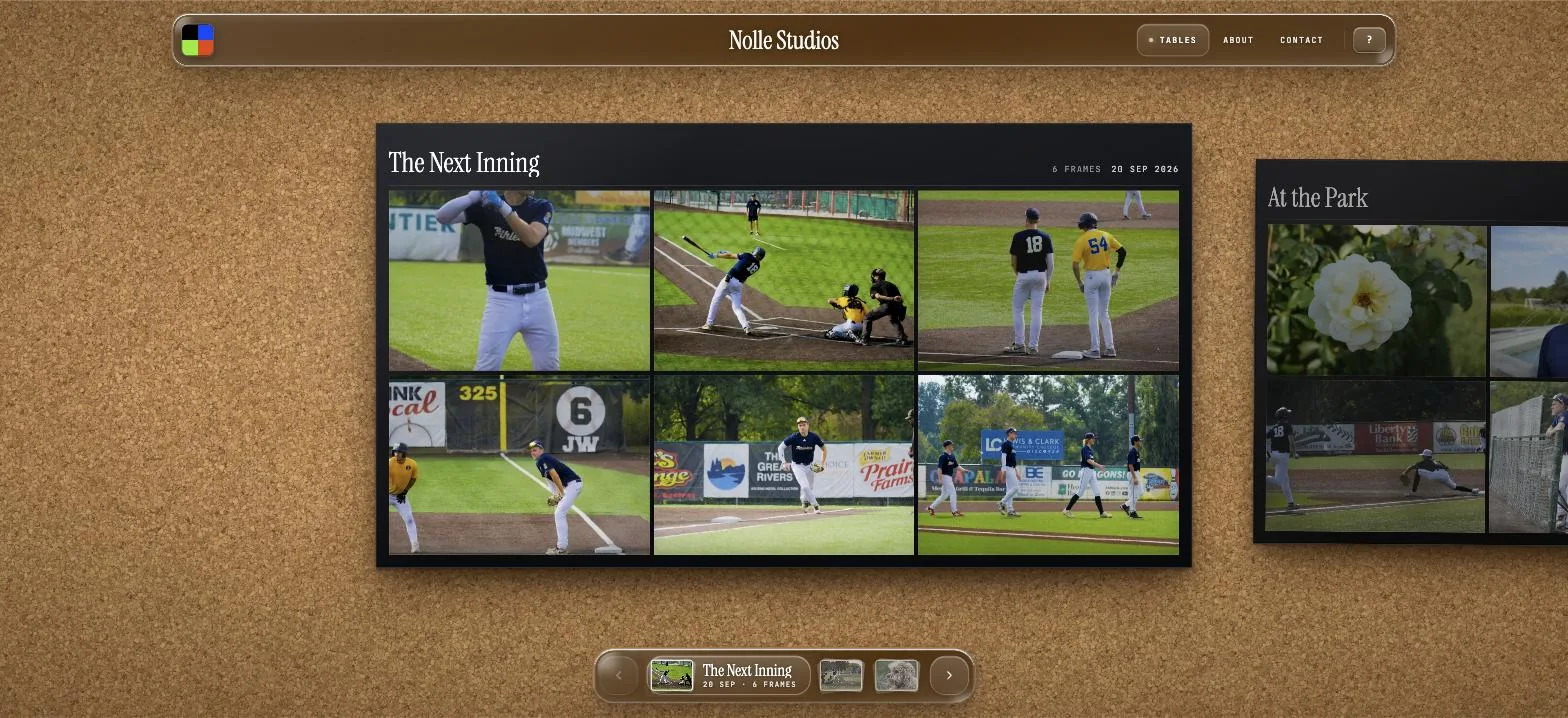
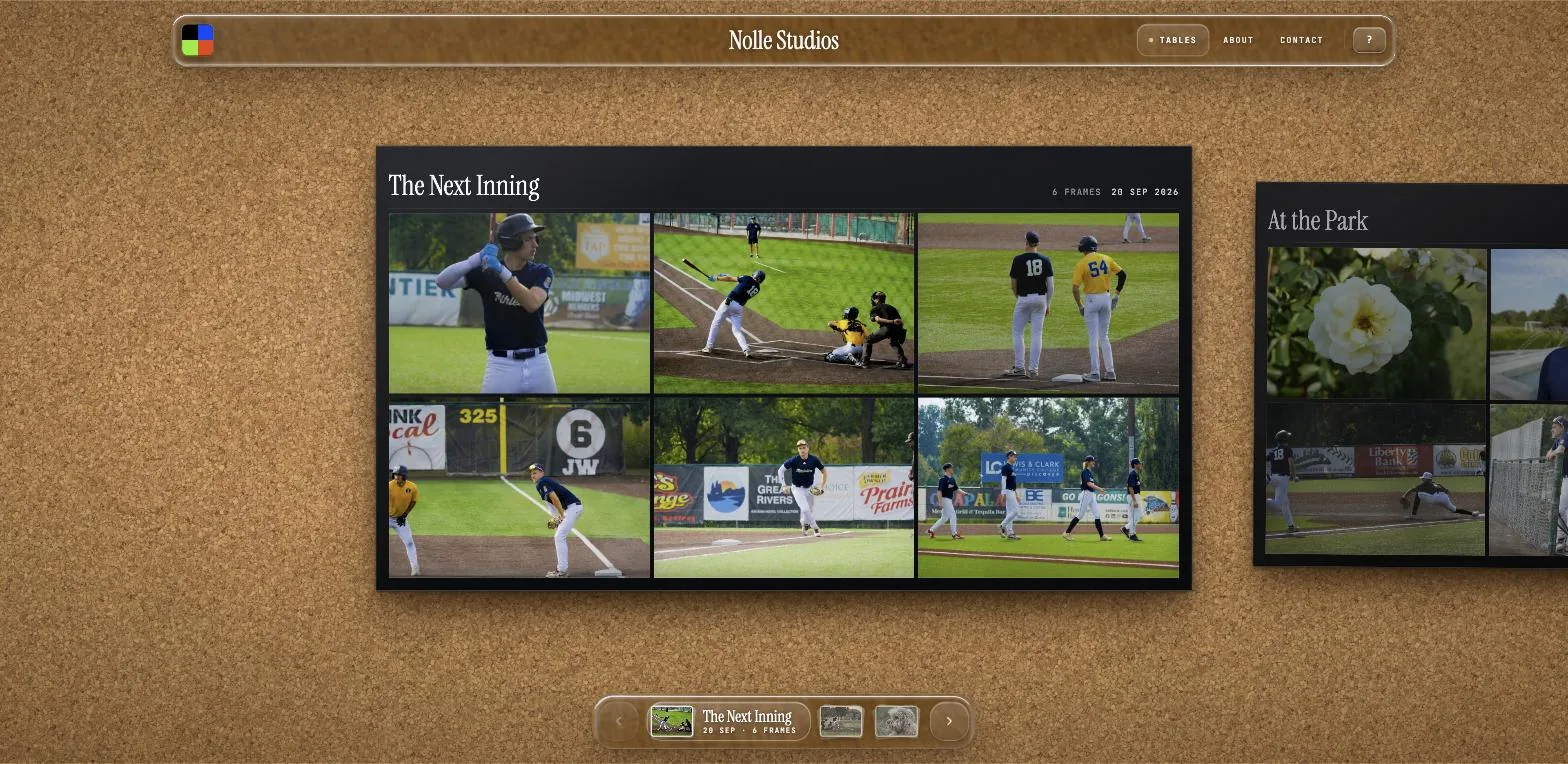
Crop contact-sheet frames toward the top; refresh README screenshots
Portrait photographs in landscape cells kept their middle and lost faces;
frames and prints now crop at 50% 30%, and the loupe's magnified crop
follows. The README shows the current pins, tape and glass.

diff --git a/src/light-table.css b/src/light-table.css
@@ -110,7 +110,9 @@ picture { display: contents; }
 .ns-frame { position: relative; overflow: hidden; background: #101216; }
 .ns-frame__btn { position: relative; display: block; width: 100%; height: 100%; padding: 0; border: 0; background: transparent; cursor: pointer; overflow: hidden; }
 .ns-frame__img {
-  display: block; width: 100%; height: 100%; object-fit: cover; filter: brightness(.98); opacity: 0;
+  /* Crop toward the upper part of the photograph: portraits keep their
+     faces. Loupe.tsx reads the same position. */
+  display: block; width: 100%; height: 100%; object-fit: cover; object-position: 50% 30%; filter: brightness(.98); opacity: 0;
   transition: transform .8s var(--ease-out), filter .5s var(--ease-out), opacity .45s ease;
 }
 .ns-frame__img:hover { transform: scale(1.05); filter: brightness(1.12); }
@@ -139,7 +141,7 @@ picture { display: contents; }
   transition: transform .7s var(--ease-out), filter .7s var(--ease-out);
 }
 .ns-print__btn:hover { transform: translateY(-2px) scale(1.012); }
-.ns-print__img { display: block; width: 100%; height: 100%; object-fit: cover; opacity: 0; transition: opacity .5s ease; }
+.ns-print__img { display: block; width: 100%; height: 100%; object-fit: cover; object-position: 50% 30%; opacity: 0; transition: opacity .5s ease; }
 .ns-print__img.is-loaded { opacity: 1; }
 .ns-print__edge { position: absolute; inset: 0; pointer-events: none; box-shadow: inset 0 0 0 1px rgba(255,255,255,.1), 5px 9px 18px rgba(40,19,3,.4), 1px 2px 4px rgba(40,19,3,.36); }
 .ns-print__sheen { position: absolute; inset: 0; pointer-events: none; background: linear-gradient(118deg, rgba(255,255,255,.09) 0 13%, transparent 28%); }

diff --git a/src/table/Loupe.tsx b/src/table/Loupe.tsx
@@ -35,11 +35,12 @@ export default function Loupe(props: { stage: () => HTMLElement | undefined; ena
     else { const k = 1 - Math.exp(-dt * 24); lx += (tx - lx) * k; ly += (ty - ly) * k; }
     show(true);
     root.style.transform = `translate3d(${lx.toFixed(2)}px,${ly.toFixed(2)}px,0)`;
-    // Reproduce object-fit: cover inside the lens so the crop matches the frame.
+    // Reproduce object-fit: cover at object-position 50% 30% inside the lens,
+    // so the magnified crop matches the frame.
     const r = img.getBoundingClientRect();
     const cover = Math.max(r.width / img.naturalWidth, r.height / img.naturalHeight);
     const drawnW = img.naturalWidth * cover, drawnH = img.naturalHeight * cover;
-    const cropX = (r.width - drawnW) / 2, cropY = (r.height - drawnH) / 2;
+    const cropX = (r.width - drawnW) * 0.5, cropY = (r.height - drawnH) * 0.3;
     const cx = lx + s.left, cy = ly + s.top;
     const wanted = img.dataset.loupe ?? "";
     if (wanted !== source) { source = wanted; lens.style.backgroundImage = wanted; }
